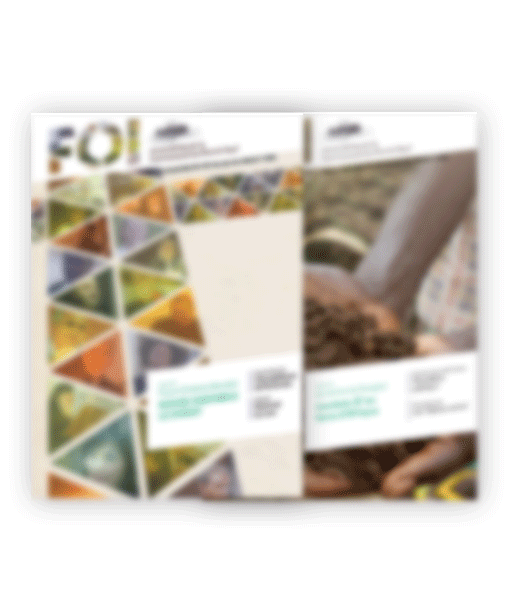
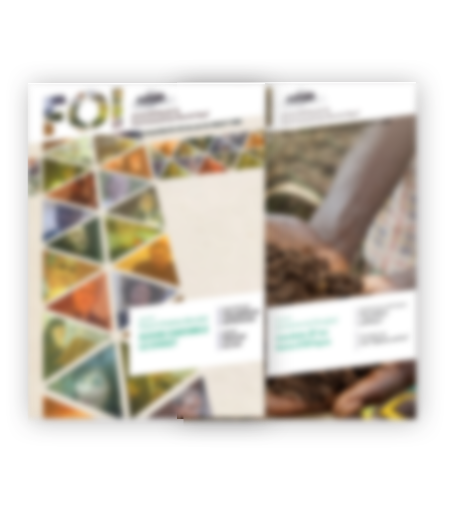
suite

Changed region(s): [[0.0622, 0.1245, 0.9333, 0.8405], [0.8711, 0.4358, 0.9022, 0.4669]]

diff --git a/theme/foi/css/foi.css b/theme/foi/css/foi.css
@@ -1,1 +1,1 @@
-@media screen and (min-width:768px){h1{font-size:48px}}body{font-size:16px;min-height:100%;line-height:1.4em}html,body{font-family:'PT Sans',Arimo,"Helvetica Neue",Helvetica,Arial,sans-serif;height:100%;overflow:auto;background-color:#dedede}p{color:#252525;font-size:16px}.row.inner-row{margin-bottom:30px}.bg-main{background-color:#ff3100}.bg-grey{background-color:#c2c2c2}.padding{padding:30px 25px}.titre{position:relative;border-bottom:5px solid #c2c2c2;margin:20px 15px}.titre h3{font-weight:700;text-transform:uppercase;padding-right:25px;background-color:#dedede;position:absolute;bottom:0;margin-bottom:-10px}.titre h2{color:#fff;font-weight:700;text-transform:uppercase;padding-right:25px;background-color:#ff3100;position:absolute;bottom:0;margin-bottom:-10px}.titre ol{position:absolute;bottom:0;margin-bottom:-10px;background-color:#dedede;padding:0 25px 0 0}.titre ol a{color:#252525;font-weight:700}.titre .breadcrumb>li+li:before{color:#252525}h2.titre{font-weight:700;text-transform:uppercase;color:#fff}h2.titre:after{content:'';border-bottom:2px solid #c2c2c2}@media screen and (max-width:500px){[class*=col-xs-]{width:100%}[class*=col-xs-pull-]{right:0}[class*=col-xs-push-]{left:0}}.btn-default{background-color:#ff3100;color:#fff;border-color:#ff3100}.btn-default:hover{background-color:#fff;color:#ff3100;border-color:#ff3100}.btn.btn-primary{background-color:#ff3100;color:#fff;border-color:#ff3100}.navbar-brand{height:auto}.nav.navbar-nav,.dropdown-menu{background-color:#ff3100}.nav.navbar-nav a,.dropdown-menu a{color:#fff;text-transform:uppercase;font-weight:700}.nav>li>a:hover,.nav>li>a:focus,.dropdown-menu>li>a:hover,.dropdown-menu>li>a:focus,.nav .open>a,.nav .open>a:hover,.nav .open>a:focus{text-decoration:none;background-color:#fff;color:#ff3100}@media (min-width:768px){.nav.navbar-nav>li>a{padding:20px}}.dropdown-menu>li>a{padding:6px 20px}.nav input{background-color:transparent!important;color:#fff}.nav inputform-control::focus{border-color:#fff;box-shadow:none}.nav input::-webkit-input-placeholder{color:#fff}.nav input:-moz-placeholder{color:#fff;opacity:1}.nav input::-moz-placeholder{color:#fff;opacity:1}.nav input:-ms-input-placeholder{color:#fff}.dossiers{background-color:#ff3100;padding-top:25px;padding-bottom:25px}.dossiers .transparent h4,.dossiers .transparent h4:hover{color:#fff!important}.transparent{position:absolute;bottom:0;width:100%;padding:15px 10px;background-color:rgba(194,194,194,.75)}.transparent h4,.transparent h4:hover{color:#252525!important;font-weight:700}.summary{height:120px;overflow-y:hidden;display:inline-block;padding:5px 10px;background-color:#fff;border:2px solid #464646}.summary h4,.summary h4:hover{color:#252525!important;font-weight:700}.articleList div{overflow:hidden}.articleList img{-webkit-transition:all .4s ease;-moz-transition:all .4s ease;-ms-transition:all .4s ease;-o-transition:all .4s ease;transition:all .4s ease}.articleList:hover img{-webkit-transform:scale(1.15) rotate(5deg);-moz-transform:scale(1.15) rotate(5deg);-ms-transform:scale(1.15) rotate(5deg);-o-transform:scale(1.15) rotate(5deg);transform:scale(1.15) rotate(5deg)}.foiPresentation>div{background:url(../img/presentation.png) no-repeat bottom}.owl-theme .owl-controls{margin-top:-35px;position:relative;z-index:1}.rubedo-caption{background-color:transparent;bottom:45px}.rubedo-caption h3{font-weight:700;color:#fff;border-bottom:2px solid #fff;padding-bottom:10px;margin:0 5%}.owl-theme .owl-controls .owl-page span{background-color:#fff}.footer{padding:50px 15px 30px;background-color:#737373}.footer *{color:#fff}ul.presentation{position:absolute;bottom:0;padding:0;margin:0;width:100%;background-color:rgba(194,194,194,.75);list-style-type:none}ul.presentation li{float:left;height:45px;line-height:30px;padding:5px 0;text-align:center;width:33.3333%;border-top:2px solid #ff3100}ul.presentation li span{line-height:1em;display:inline-block}ul.presentation li a{font-weight:700;color:#fff;text-transform:uppercase;text-decoration:none}ul.presentation li+li{border-left:1px solid #252525}header.content{background-repeat:no-repeat;background-position:center center;background-attachment:scroll;background-size:cover;height:320px;margin-bottom:24px;line-height:320px;text-align:left;background-color:#dedede;overflow-y:hidden}header.content h1,header.content h2,header.content h3,header.content h4,header.content h5,header.content p{color:#fff;text-shadow:2.5px 2.5px 2.5px rgba(0,0,0,.33)}header.content>div{line-height:normal;display:inline-block;text-align:left;vertical-align:middle;padding:25px}
+@media screen and (min-width:768px){h1{font-size:48px}}body{font-size:16px;min-height:100%;line-height:1.4em}html,body{font-family:'PT Sans',Arimo,"Helvetica Neue",Helvetica,Arial,sans-serif;height:100%;overflow:auto;background-color:#dedede}p{color:#252525;font-size:16px}.row.inner-row{margin-bottom:30px}.bg-main{background-color:#ff3100}.bg-grey{background-color:#c2c2c2}.padding{padding:30px 25px}.titre{position:relative;border-bottom:5px solid #c2c2c2;margin:20px 15px}.titre h3{font-weight:700;text-transform:uppercase;padding-right:25px;background-color:#dedede;position:absolute;bottom:0;margin-bottom:-10px}.titre h2{color:#fff;font-weight:700;text-transform:uppercase;padding-right:25px;background-color:#ff3100;position:absolute;bottom:0;margin-bottom:-10px}.titre ol{position:absolute;bottom:0;margin-bottom:-10px;background-color:#dedede;padding:0 25px 0 0}.titre ol a{color:#252525;font-weight:700}.titre .breadcrumb>li+li:before{color:#252525}h2.titre{font-weight:700;text-transform:uppercase;color:#fff}h2.titre:after{content:'';border-bottom:2px solid #c2c2c2}@media screen and (max-width:500px){[class*=col-xs-]{width:100%}[class*=col-xs-pull-]{right:0}[class*=col-xs-push-]{left:0}}.btn-default{background-color:#ff3100;color:#fff;border-color:#ff3100}.btn-default:hover{background-color:#fff;color:#ff3100;border-color:#ff3100}.btn.btn-primary{background-color:#ff3100;color:#fff;border-color:#ff3100}.navbar-brand{height:auto}.nav.navbar-nav,.dropdown-menu{background-color:#ff3100}.nav.navbar-nav a,.dropdown-menu a{color:#fff;text-transform:uppercase;font-weight:700}.nav>li>a:hover,.nav>li>a:focus,.dropdown-menu>li>a:hover,.dropdown-menu>li>a:focus,.nav .open>a,.nav .open>a:hover,.nav .open>a:focus{text-decoration:none;background-color:#fff;color:#ff3100}@media (min-width:768px){.nav.navbar-nav>li>a{padding:20px}}.dropdown-menu>li>a{padding:6px 20px}.nav input{background-color:transparent!important;color:#fff}.nav inputform-control::focus{border-color:#fff;box-shadow:none}.nav input::-webkit-input-placeholder{color:#fff}.nav input:-moz-placeholder{color:#fff;opacity:1}.nav input::-moz-placeholder{color:#fff;opacity:1}.nav input:-ms-input-placeholder{color:#fff}.dossiers{background-color:#ff3100;padding-top:25px;padding-bottom:25px}.dossiers .transparent h4,.dossiers .transparent h4:hover{color:#fff!important}.transparent{position:absolute;bottom:0;width:100%;padding:15px 10px;background-color:rgba(194,194,194,.75)}.transparent h4,.transparent h4:hover{color:#252525!important;font-weight:700}.summary{height:120px;overflow-y:hidden;display:inline-block;padding:5px 10px;background-color:#fff;border:2px solid #464646}.summary h4,.summary h4:hover{color:#252525!important;font-weight:700}.articleList div{overflow:hidden}.articleList img{-webkit-transition:all .4s ease;-moz-transition:all .4s ease;-ms-transition:all .4s ease;-o-transition:all .4s ease;transition:all .4s ease}.articleList:hover img{-webkit-transform:scale(1.15) rotate(5deg);-moz-transform:scale(1.15) rotate(5deg);-ms-transform:scale(1.15) rotate(5deg);-o-transform:scale(1.15) rotate(5deg);transform:scale(1.15) rotate(5deg)}.foiPresentation>div{background:url(../img/presentation.png) no-repeat bottom;text-align:center;background-size:cover}.owl-theme .owl-controls{margin-top:-35px;position:relative;z-index:1}.rubedo-caption{background-color:transparent;bottom:45px}.rubedo-caption h3{font-weight:700;color:#fff;border-bottom:2px solid #fff;padding-bottom:10px;margin:0 5%}.owl-theme .owl-controls .owl-page span{background-color:#fff}.footer{padding:50px 15px 30px;background-color:#737373}.footer *{color:#fff}ul.presentation{position:absolute;bottom:0;padding:0;margin:0;width:100%;background-color:rgba(194,194,194,.75);list-style-type:none}ul.presentation li{float:left;height:45px;line-height:30px;padding:5px 0;text-align:center;width:33.3333%;border-top:2px solid #ff3100}ul.presentation li span{line-height:1em;display:inline-block}ul.presentation li a{font-weight:700;color:#fff;text-transform:uppercase;text-decoration:none}ul.presentation li+li{border-left:1px solid #252525}header.content{background-repeat:no-repeat;background-position:center center;background-attachment:scroll;background-size:cover;height:320px;margin-bottom:24px;line-height:320px;text-align:left;background-color:#dedede;overflow-y:hidden}header.content h1,header.content h2,header.content h3,header.content h4,header.content h5,header.content p{color:#fff;text-shadow:2.5px 2.5px 2.5px rgba(0,0,0,.33)}header.content>div{line-height:normal;display:inline-block;text-align:left;vertical-align:middle;padding:25px}

diff --git a/theme/foi/css/foi.less b/theme/foi/css/foi.less
@@ -124,6 +124,8 @@ h2.titre:after{
 
 .foiPresentation>div{
 		background: url('../img/presentation.png') no-repeat bottom;
+		text-align: center;
+		background-size: cover;
 	
 }
 
